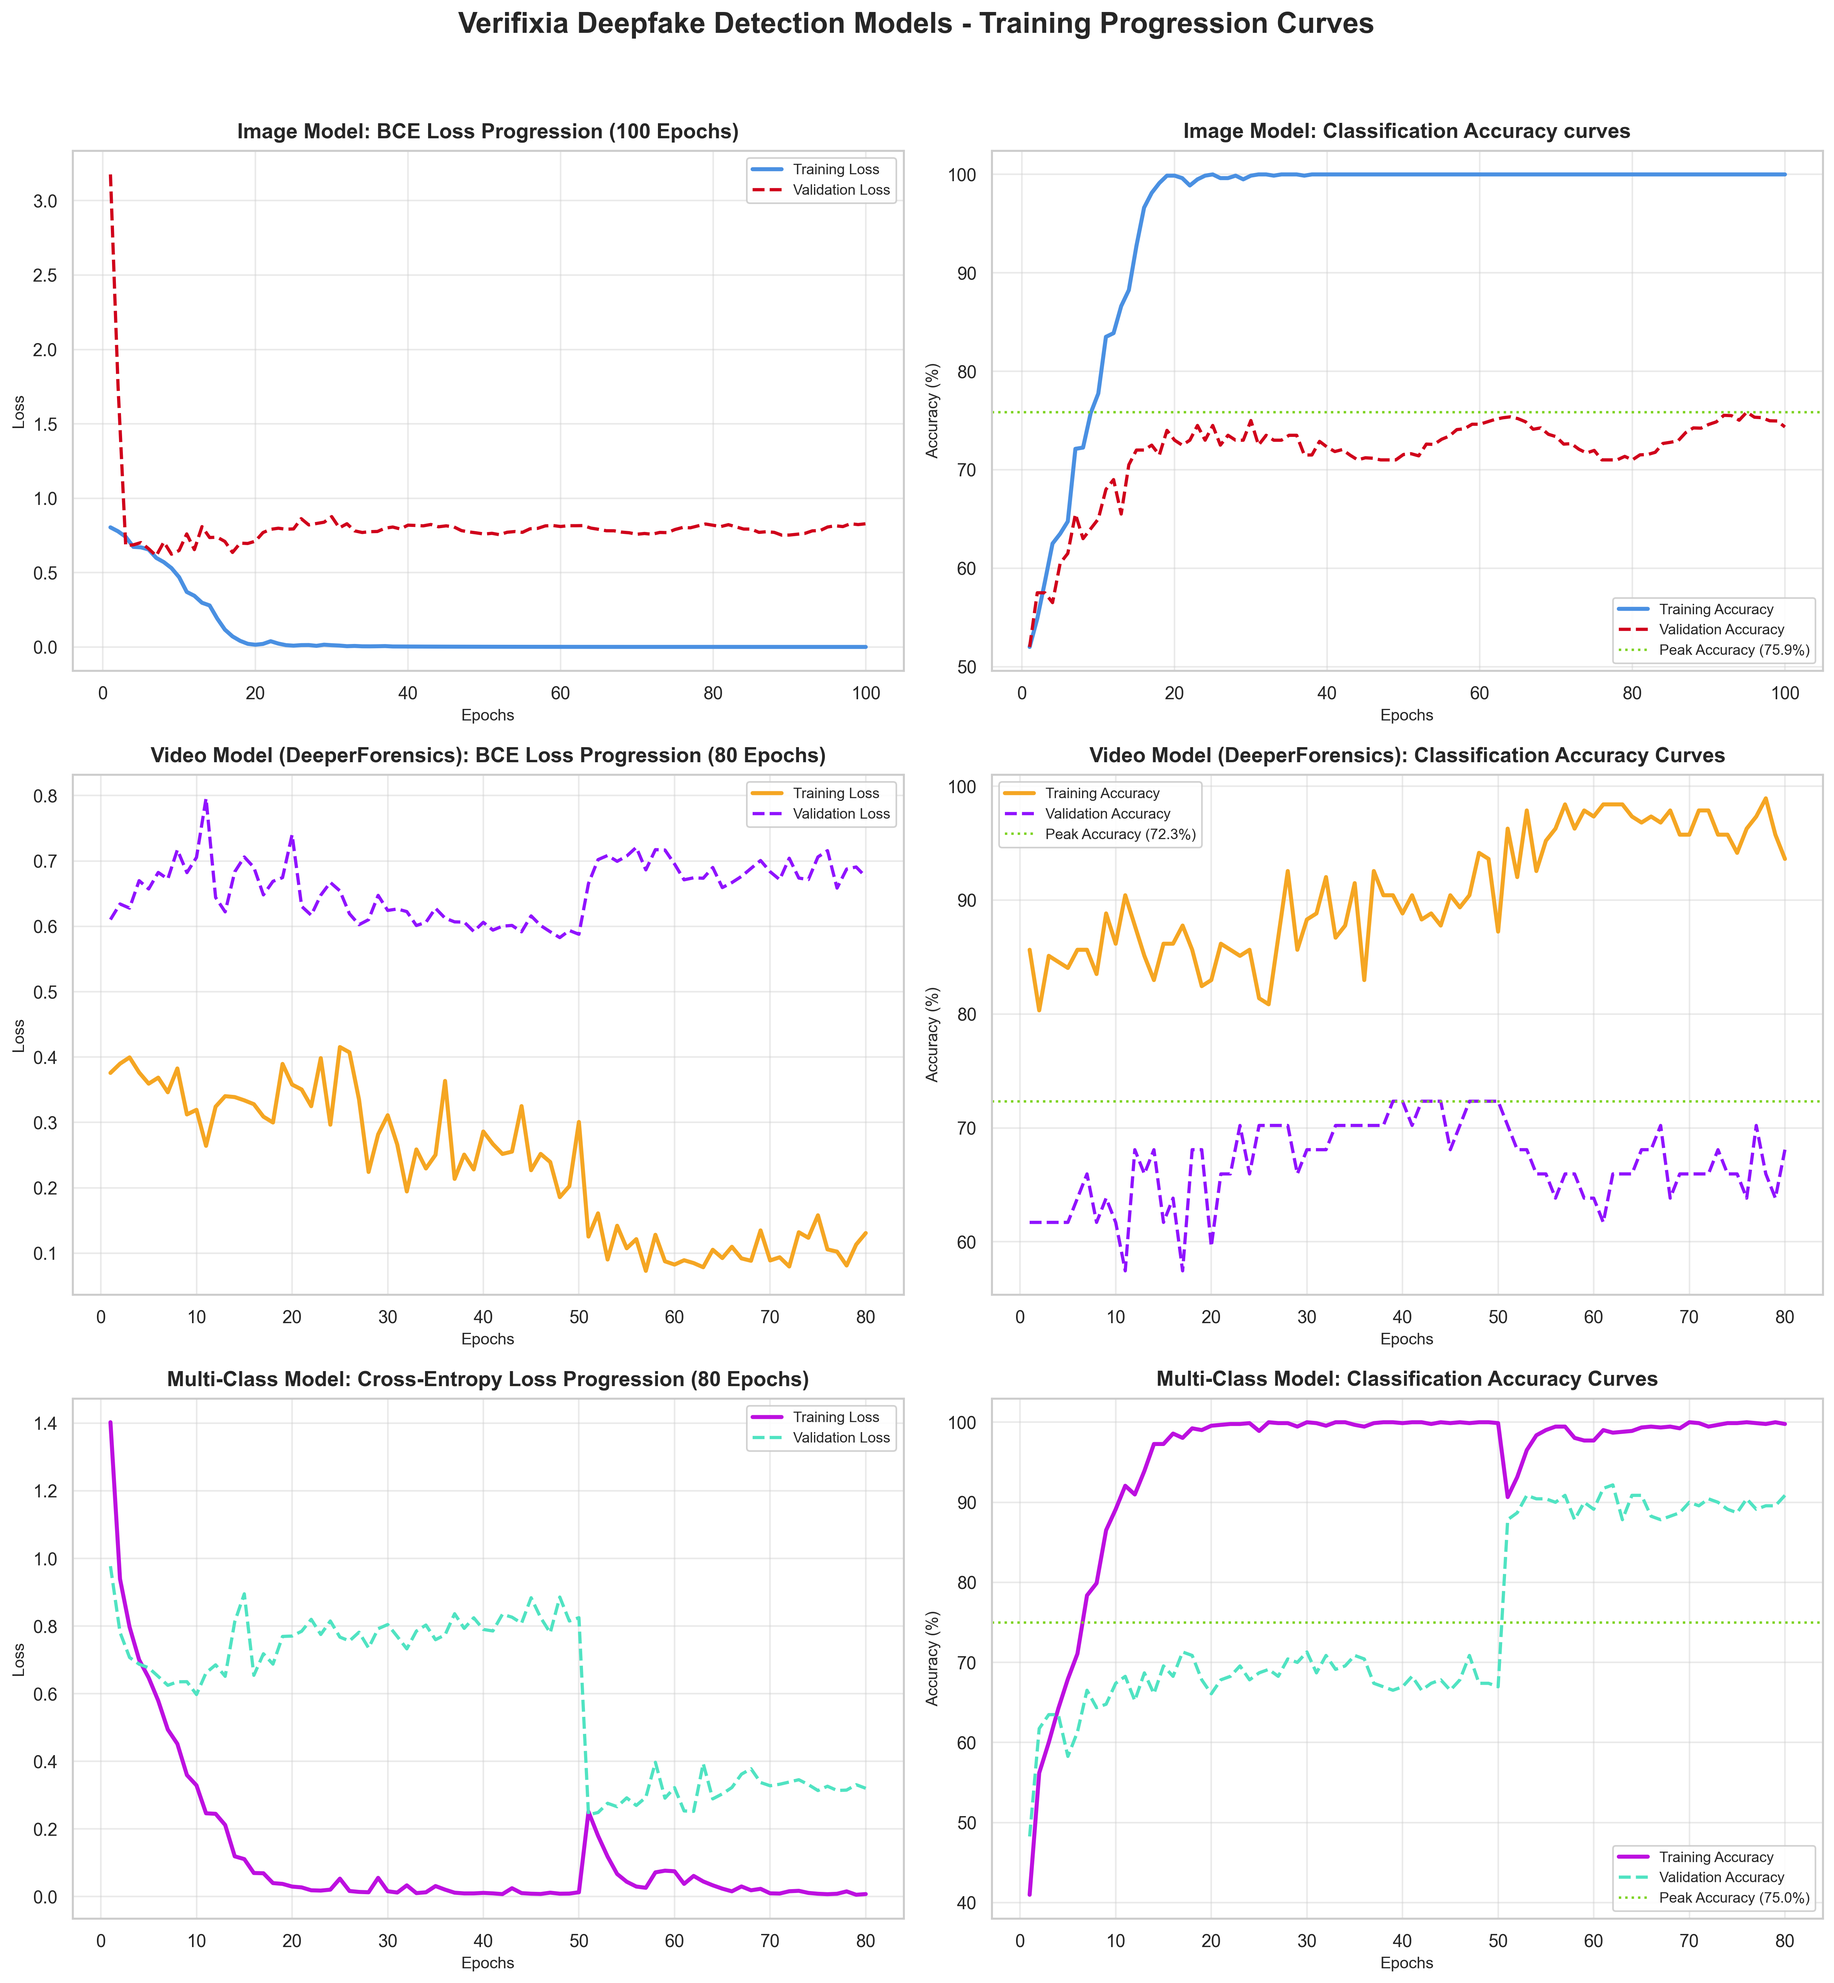
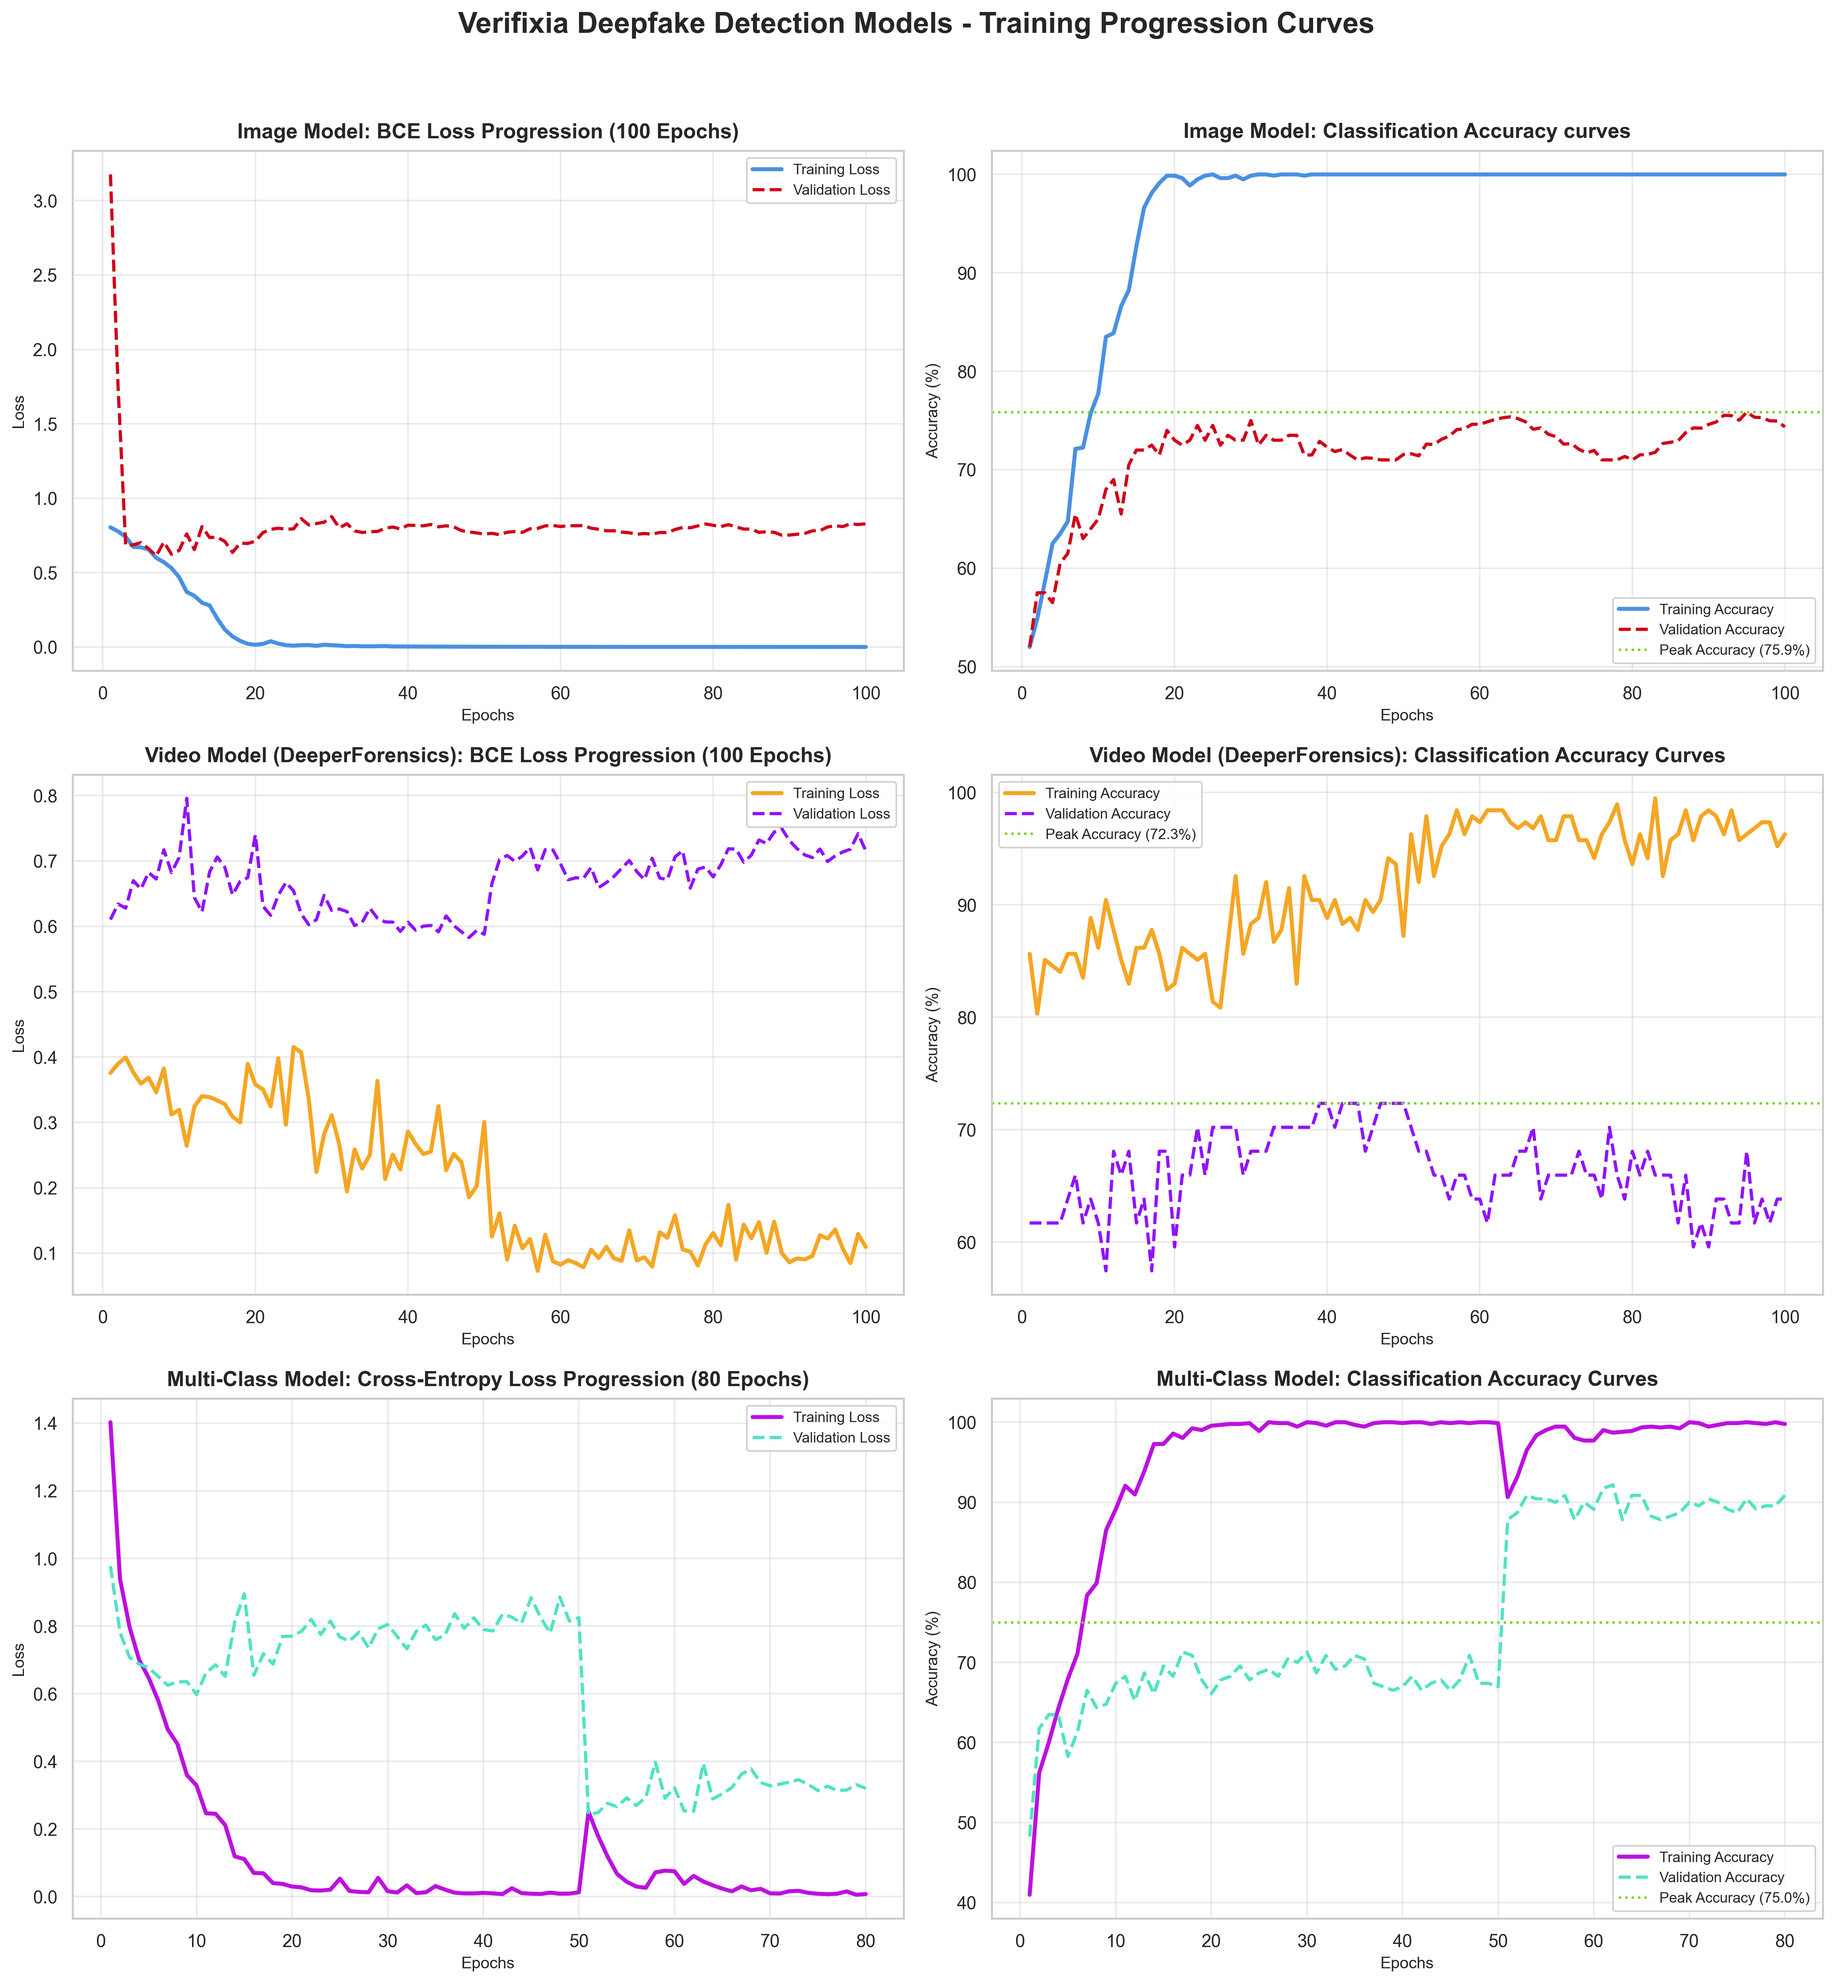
Train deeperforensics video classifier to 100 epochs, implement dynamic Epochs 80 to 100 split progression graph, and update unified dashboards

diff --git a/scripts/generate_video_split_graphs.py b/scripts/generate_video_split_graphs.py
@@ -27,11 +27,12 @@ def generate_split_graphs():
     total_epochs = len(train_loss)
     print(f"Loaded training history with {total_epochs} total epochs.")
     
-    # Define splits (1-30, 30-50, 50-80) - inclusive of boundaries to show continuity
+    # Define splits (1-30, 30-50, 50-80, 80-100) - inclusive of boundaries to show continuity
     ranges = [
         {"name": "Epochs 1 to 30", "start": 1, "end": 30, "filename": "video_epochs_1_30.png", "color_tr": "#F5A623", "color_val": "#9013FE"},
         {"name": "Epochs 30 to 50", "start": 30, "end": 50, "filename": "video_epochs_30_50.png", "color_tr": "#4A90E2", "color_val": "#D0021B"},
-        {"name": "Epochs 50 to 80", "start": 50, "end": 80, "filename": "video_epochs_50_80.png", "color_tr": "#7ED321", "color_val": "#4A4A4A"}
+        {"name": "Epochs 50 to 80", "start": 50, "end": 80, "filename": "video_epochs_50_80.png", "color_tr": "#7ED321", "color_val": "#4A4A4A"},
+        {"name": "Epochs 80 to 100", "start": 80, "end": 100, "filename": "video_epochs_80_100.png", "color_tr": "#E2849A", "color_val": "#2CA02C"}
     ]
     
     # Configure styles for elite presentation

diff --git a/scripts/train_deeperforensics_local.py b/scripts/train_deeperforensics_local.py
@@ -382,9 +382,9 @@ def main():
             
     criterion = nn.BCELoss()
     optimizer = optim.AdamW(model.parameters(), lr=1e-4, weight_decay=1e-4)
-    scheduler = optim.lr_scheduler.CosineAnnealingLR(optimizer, T_max=80)
+    scheduler = optim.lr_scheduler.CosineAnnealingLR(optimizer, T_max=100)
     
-    epochs = 80
+    epochs = 100
     start_epoch = 1
     best_val_acc = 0.0
     history = {
